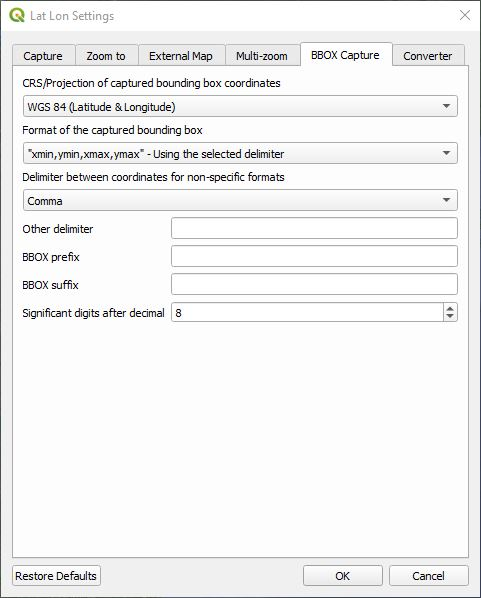
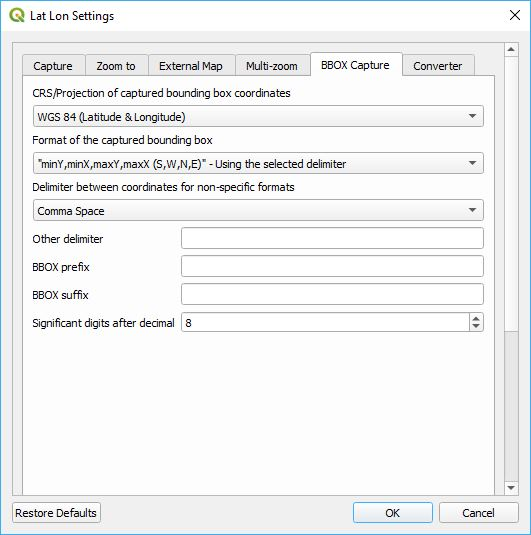
Added another BBOX capture format.

Changed region(s): [[0.0, 0.0, 1.0, 1.0]]

diff --git a/index.html b/index.html
@@ -319,8 +319,9 @@ code {
 </ul>
 <p><strong>Format of the captured bounding box</strong> specifies the format of the bounding box captured on the clipboard. It can be one of the following formats.</p>
 <ul>
-<li><strong><em>minX,minY,maxX,maxY</em></strong> - Using the selected delimiter</li>
-<li><strong><em>minX,maxX,minY,maxY</em></strong> - Using the selected delimiter</li>
+<li><strong><em>minX,minY,maxX,maxY (W,S,E,N)</em></strong> - Using the selected delimiter</li>
+<li><strong><em>minX,maxX,minY,maxY (W,E,S,N)</em></strong> - Using the selected delimiter</li>
+<li><strong><em>minY,minX,maxY,maxX (S,W,N,E)</em></strong> - Using the selected delimiter</li>
 <li><strong><em>x1 y1,x2 y2,x3 y3,x4 y4,x1 y1</em></strong> - Polygon format</li>
 <li><strong><em>x1,y1 x2,y2 x3,y3 x4,y4, x1,y1</em></strong> - Alternate polygon format</li>
 <li><strong><em>WKT Polygon</em></strong></li>

diff --git a/latLonTools.py b/latLonTools.py
@@ -232,18 +232,21 @@ class LatLonTools:
         elif settings.bBoxFormat == 1:  # minX,maxX,minY,maxY - Using the selected delimiter'
             outStr = '{:.{prec}f}{}{:.{prec}f}{}{:.{prec}f}{}{:.{prec}f}'.format(
                 minX, delim, maxX, delim, minY, delim, maxY, prec=precision)
-        elif settings.bBoxFormat == 2:  # x1 y1,x2 y2,x3 y3,x4 y4,x1 y1 - Polygon format
+        elif settings.bBoxFormat == 2:  # minY,minX,maxY,maxX - using the delimiter
+            outStr = '{:.{prec}f}{}{:.{prec}f}{}{:.{prec}f}{}{:.{prec}f}'.format(
+                minY, delim, minX, delim, maxY, delim, maxX, prec=precision)
+        elif settings.bBoxFormat == 3:  # x1 y1,x2 y2,x3 y3,x4 y4,x1 y1 - Polygon format
             outStr = '{:.{prec}f} {:.{prec}f},{:.{prec}f} {:.{prec}f},{:.{prec}f} {:.{prec}f},{:.{prec}f} {:.{prec}f},{:.{prec}f} {:.{prec}f}'.format(
                 minX, minY, minX, maxY, maxX, maxY, maxX, minY, minX, minY, prec=precision)
-        elif settings.bBoxFormat == 3:  # x1,y1 x2,y2 x3,y3 x4,y4 x1,y1 - Polygon format
+        elif settings.bBoxFormat == 4:  # x1,y1 x2,y2 x3,y3 x4,y4 x1,y1 - Polygon format
             outStr = '{:.{prec}f},{:.{prec}f} {:.{prec}f},{:.{prec}f} {:.{prec}f},{:.{prec}f} {:.{prec}f},{:.{prec}f} {:.{prec}f},{:.{prec}f}'.format(
                 minX, minY, minX, maxY, maxX, maxY, maxX, minY, minX, minY, prec=precision)
-        elif settings.bBoxFormat == 4:  # WKT Polygon
+        elif settings.bBoxFormat == 5:  # WKT Polygon
             outStr = extent.asWktPolygon()
-        elif settings.bBoxFormat == 5:  # bbox: [minX, minY, maxX, maxY] - MapProxy
+        elif settings.bBoxFormat == 6:  # bbox: [minX, minY, maxX, maxY] - MapProxy
             outStr = 'bbox: [{}, {}, {}, {}]'.format(
                 minX, minY, maxX, maxY)
-        elif settings.bBoxFormat == 6:  # bbox: [minX, minY, maxX, maxY] - MapProxy
+        elif settings.bBoxFormat == 7:  # bbox: [minX, minY, maxX, maxY] - MapProxy
             outStr = 'bbox={},{},{},{}'.format(
                 minX, minY, maxX, maxY)
         outStr = '{}{}{}'.format(prefix, outStr, suffix)

diff --git a/settings.py b/settings.py
@@ -178,13 +178,14 @@ class SettingsWidget(QDialog, FORM_CLASS):
         ### BBOX CAPTURE SETTINGS ###
         self.bBoxCrsComboBox.addItems(['WGS 84 (Latitude & Longitude)', 'Project CRS'])
         self.bBoxFormatComboBox.addItems([
-            '"xmin,ymin,xmax,ymax" - Using the selected delimiter',
-            '"xmin,xmax,ymin,ymax" - Using the selected delimiter',
+            '"minX,minY,maxX,maxY (W,S,E,N)" - Using the selected delimiter',
+            '"minX,maxX,minY,maxY (W,E,S,N)" - Using the selected delimiter',
+            '"minY,minX,maxY,maxX (S,W,N,E)" - Using the selected delimiter',
             '"x1 y1,x2 y2,x3 y3,x4 y4,x1 y1" - Polygon format',
             '"x1,y1 x2,y2 x3,y3 x4,y4 x1,y1" - Alternate polgyon format',
             'WKT Polygon',
-            '"bbox: [xmin, ymin, xmax, ymax]" - MapProxy',
-            '"bbox=xmin,ymin,xmax,ymax" - GeoServer WFS, WMS'])
+            '"bbox: [minX, minY, maxX, maxY]" - MapProxy',
+            '"bbox=minX,minY,maxX,maxY" - GeoServer WFS, WMS'])
         self.bBoxDelimiterComboBox.addItems(['Comma', 'Comma Space', 'Space', 'Tab', 'Other'])
 
         ### COORDINATE CONVERSION SETTINGS ###

diff --git a/readme.md b/readme.md
@@ -286,8 +286,9 @@ Specify whether the captured bounding box will use WGS84 or the QGIS project's p
 
 **Format of the captured bounding box** specifies the format of the bounding box captured on the clipboard. It can be one of the following formats.
 
-* ***minX,minY,maxX,maxY*** - Using the selected delimiter
-* ***minX,maxX,minY,maxY*** - Using the selected delimiter
+* ***minX,minY,maxX,maxY (W,S,E,N)*** - Using the selected delimiter
+* ***minX,maxX,minY,maxY (W,E,S,N)*** - Using the selected delimiter
+* ***minY,minX,maxY,maxX (S,W,N,E)*** - Using the selected delimiter
 * ***x1 y1,x2 y2,x3 y3,x4 y4,x1 y1*** - Polygon format
 * ***x1,y1 x2,y2 x3,y3 x4,y4, x1,y1*** - Alternate polygon format
 * ***WKT Polygon***
